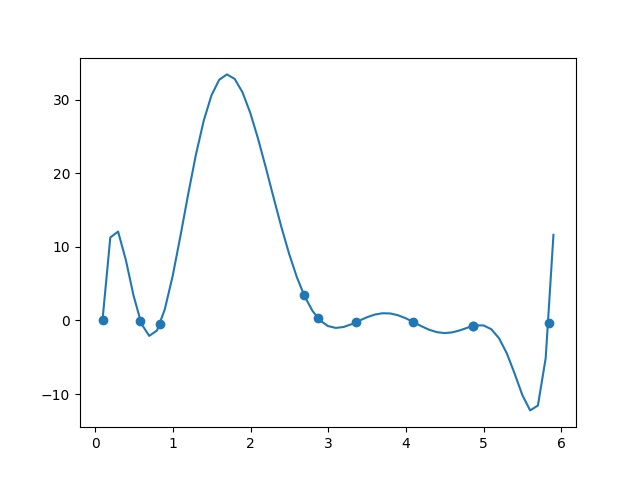
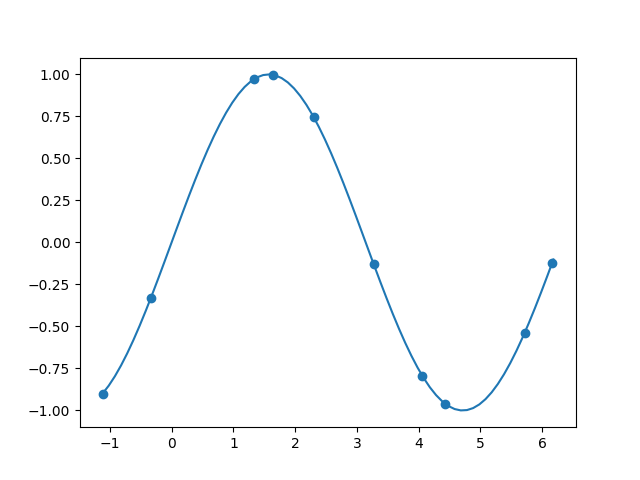
FINAL PUSH

diff --git a/main.py b/main.py
@@ -68,20 +68,14 @@ def determine_candidate_numeric_splits(D): # set of training instances D, featur
     for Xi in [0, 1]: # assuming only 2 features
         D = sort_data_by_feature(D, Xi)
         for j in range(0, len(D)-1):
-            # I realize that this line of code is more correct
-            # to leave uncommented to only consider splits where the classification
-            # between points is different (code runs much faster too),
-            # but if I don't consider every point, my tree fails on D3leaves.txt ONLY
-            # My tree does not fail or look different AT ALL on any other given
-            # example set, whether this if statement is here or not.
-            # This tells me that I am SLIGHTLY missing some candidate splits
-            # for VERY specific corner cases, but the VAST majority of the time I am
-            # getting candidate splits correctly.
-            # but when all the splits are considered, my information gain calculation
-            # is still correct and still picks the best split out of all of them.
-
-            #if get_classification(D[j]) != get_classification(D[j+1]):
-            C.append([Xi, D[j+1]])
+            if get_classification(D[j]) != get_classification(D[j+1]):
+                C.append([Xi, D[j+1]])
+                # Handles the case that the sorted dataset could have the same values
+                if D[j, Xi] == D[j+1, Xi]:
+                    for k in range(j+1, len(D)-1):
+                        if D[k, Xi] == D[k+1, Xi]:
+                            C.append([Xi, D[k+1]])
+                            continue
     return C
 
 # Checks if tree has met stopping criteria to create a leaf node
@@ -108,13 +102,6 @@ def is_stopping_criteria_met(D, C):
     if C == []:
         stop = True
 
-    # Never occurs: all splits have zero gain ratio (if the entropy of the split is non-zero)
-    # else:
-    #     gain_ratios = []
-    #     for c in range(0, len(C)):
-    #         gain_ratio, S, split_feature, split_value = get_gain_ratio_of_C(C[c], D)
-    #         gain_ratios.append(gain_ratio)
-    #     stop = gain_ratios.count(0) == len(gain_ratios) # all splits have zero gain ratio
     #########
         if DEBUG:
             print(stop)
@@ -296,7 +283,7 @@ def make_subtree(D, root=False):
         for c in C:
             gain_ratio, S, split_feature, split_value = get_gain_ratio_of_C(c, D)
             info_gain_c = info_gain(D, S)
-            print('candidate split: split on x%d >= %f' % (c[0], c[1][c[0]]), end='\t| ')
+            print('candidate split: split on x%d >= %f' % (c[0]+1, c[1][c[0]]), end='\t| ')
             if gain_ratio == 0:
                 print('info_gain:', info_gain_c)
             else:
@@ -418,25 +405,6 @@ def print_tree(level, tree):
         print()
         print_tree(level+1, tree.right_branch)
 
-def print_tree_python_code(level, tree):
-    if tree.is_leaf:
-        for i in range(0, level):
-            print("\t",end='')
-        print(tree.classification)
-    else:
-        for i in range(0, level):
-            print("\t",end='')
-        print('if x'+str(tree.split_feature+1),'>=',tree.split_value, ':')
-
-        for i in range(0, level):
-            print("\t",end='')
-        print_tree_python_code(level+1, tree.left_branch)
-
-        for i in range(0, level):
-            print("\t",end='')
-        print("else:")
-        print_tree_python_code(level+1, tree.right_branch)
-
 # Create a scatter plot of dataset D into a file with name filename
 # produces an output .png in the output folder
 def scatter_plot_points(D, filename):
@@ -490,10 +458,9 @@ if __name__ == "__main__":
     D = np.array(file_input(filename))
 
     tree = make_subtree(D)
-    #print_tree(0, tree)
-    print_tree_python_code(0, tree)
+    print_tree(0, tree)
     #scatter_plot_points(D, sys.argv[1].split('/')[-1])
-    draw_scatter_plot_with_boundary(D, tree, sys.argv[1].split('/')[-1])
+    #draw_scatter_plot_with_boundary(D, tree, sys.argv[1].split('/')[-1])
 
     print('num nodes =', count_nodes_in_tree(tree))
     #test_tree(tree, np.array(file_input('data/Dtest.txt')))

diff --git a/section4_lagrange/lagrange.py b/section4_lagrange/lagrange.py
@@ -7,8 +7,8 @@ import matplotlib.pyplot as plt
 n = 10
 a = 0
 b = 2*math.pi
-x = np.random.uniform(a,b,size=n)
-y = np.sin(x) + np.random.normal(0, 1, n)
+x = np.linspace(a,b,n) + np.random.normal(0, 1, n)
+y = np.sin(x)
 
 poly = lagrange(x,y)
 
@@ -19,5 +19,11 @@ step = 0.1
 x_new = np.arange(min(x), max(x)+step, step)
 
 plt.scatter(x, y, label='data')
-plt.plot(x_new, Polynomial(poly.coef[::-1])(x_new), label='Polynomial')
+y_new = Polynomial(poly.coef[::-1])(x_new)
+plt.plot(x_new, y_new, label='Polynomial')
 plt.savefig('section4_lagrange/lagrange_plot.png')
+
+sum = 0
+for x in x_new:
+    sum = sum + abs(math.sin(x) - Polynomial(poly.coef[::-1])(x))
+print(sum)
